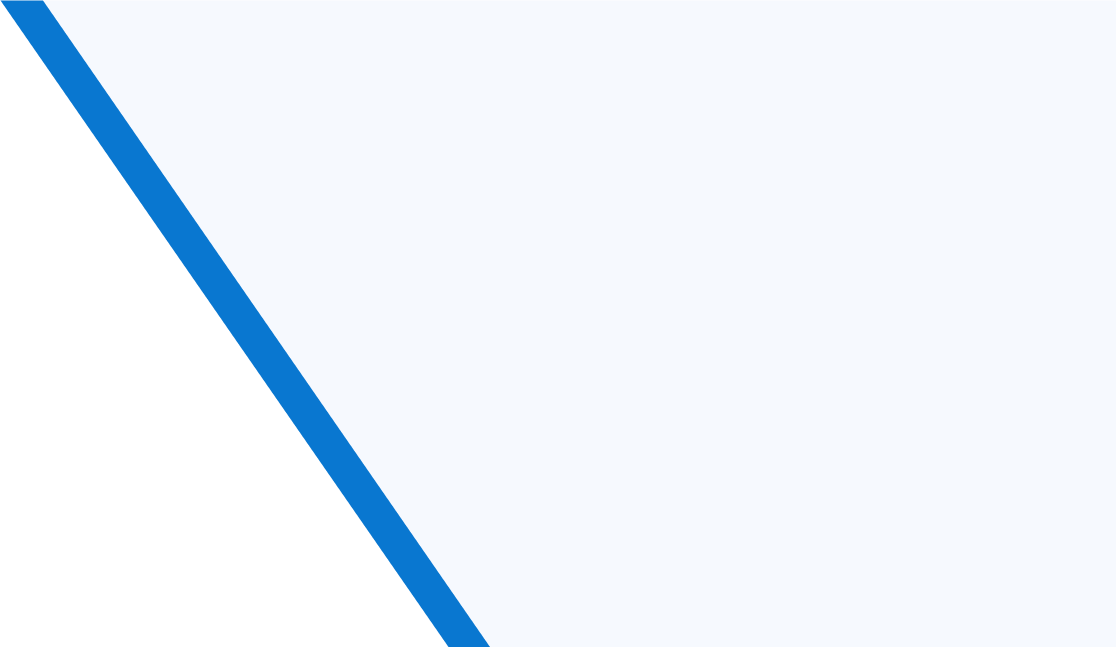
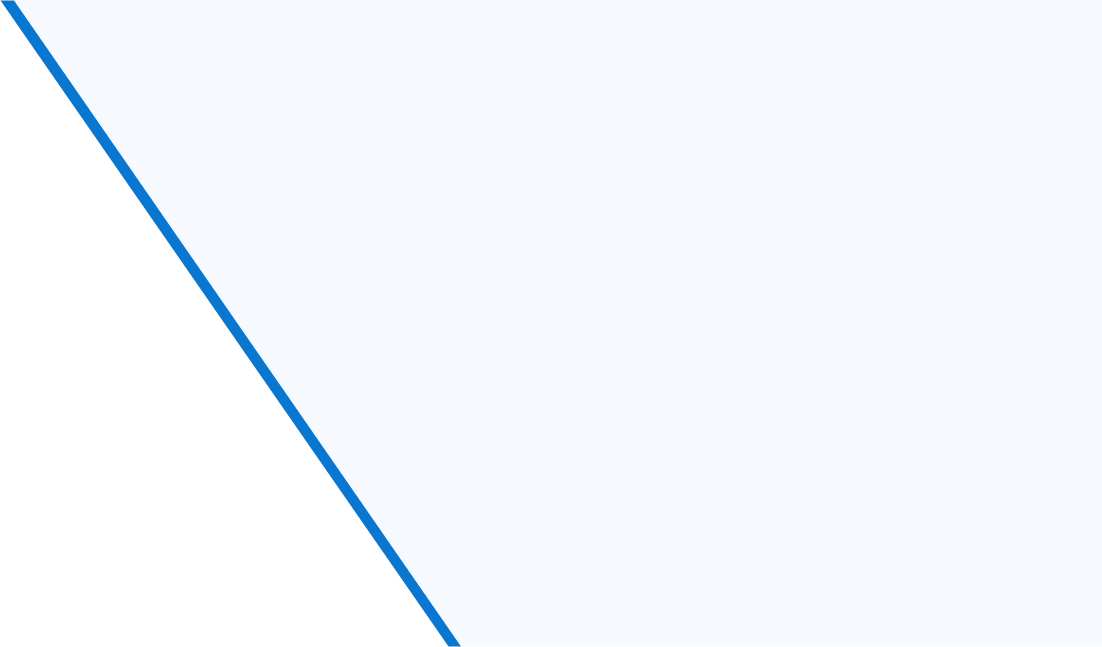
home page in progress

Changed region(s): [[0.0, 0.0, 0.4628, 1.0]]

diff --git a/src/app/components/wecome-section/wecome-section.component.scss b/src/app/components/wecome-section/wecome-section.component.scss
@@ -1,0 +1,90 @@
+.welcome-section {
+  margin-top: 100px;
+  .welcome-img-box {
+  position: relative;
+
+  .big-image {
+    height: 450px;
+    width: 450px;
+    border-radius: 20px;
+    border: 4px var(--color-primary) solid;
+    transform: skewX(-10deg);
+    overflow: hidden;
+
+    img {
+      height: 450px;
+      transform: skewX(10deg);
+      position: relative;
+      margin-left: -200px;
+    }
+  }
+
+  .small-image {
+    height: 300px;
+    width: 300px;
+    border-radius: 20px;
+    border: 4px solid var(--color-primary);
+    transform: skewX(-10deg);
+    position: absolute;
+    top: 50%;
+    right: 10%;
+    overflow: hidden;
+
+    img {
+      height: 310px;
+      transform: skewX(10deg);
+      position: relative;
+      margin-left: -100px;
+    }
+  }
+
+  
+}
+.welcome-txt-box {
+    .welcome-txt {
+      background-image: url(../../../assets/left_coner.png);
+      background-repeat: no-repeat;
+      padding-top: 20px;
+      padding-left: 30px;
+      margin-top: 50px;
+
+      h2 {
+        font-family: 'Jost', sans-serif;
+        color: var(--color-primary);
+        font-size: 48px;
+        font-weight: 600;
+        line-height: 69.3px;
+      }
+
+      p {
+        font-family: 'Jost', sans-serif;
+        font-size: 18px;
+        font-weight: 400px;
+        line-height: 28px;
+        color: #656567;
+        text-align: justify;
+      }
+
+      button{
+        background: var(--color-secondary);
+        color: white;
+        font-family: 'Jost', sans-serif;
+        font-size: 18px;
+        font-weight: 500;
+        border: none;
+        border-radius: 8px;
+        padding: 5px 20px;
+
+        &:hover {
+          background: var(--color-primary);
+        }
+      }
+    }
+  }
+}
+
+@media only screen and (max-width: 768px) {
+  .welcome-txt-box{
+    margin-top: 80px;
+  }
+}

diff --git a/src/app/components/slider/slider.component.scss b/src/app/components/slider/slider.component.scss
@@ -1,0 +1,99 @@
+ngb-carousel {
+  max-width: 100%;
+  max-height: 646px;
+  width: inherit;
+  height: inherit;
+  position: relative;
+  overflow: hidden;
+  img {
+    width: 70%;
+    outline: relative;
+  }
+
+  &::after {
+    content: "";
+    background-image: url(../../../assets/slash.png);
+    height: 646px;
+    width: 800px;
+    background-repeat: none;
+    position: absolute;
+    right: 0;
+    top: 0;
+  }
+}
+.carousel-inner {
+  overflow: hidden;
+}
+.carousel-item {
+  display: flex !important;
+  opacity: 0;
+  visibility: hidden;
+  transition: opacity 1.2s ease-in-out, visibility 1.2s;
+  z-index: -1;
+}
+.carousel-item.active {
+  opacity: 1;
+  visibility: visible;
+  z-index: 10;
+}
+.carousel-control-prev {
+  z-index: 20;
+}
+.carousel-control-next {
+  z-index: 20;
+}
+.carousel-indicators {
+  z-index: 20;
+}
+
+.carousel-caption {
+  width: 360px;
+  top: 30%;
+  left: 60%;
+  z-index: 20;
+  // background: pink;
+
+  h3 {
+    font-family: "Jost", sans-serif;
+    color: var(--color-primary);
+    text-align: right;
+    font-size: 38px;
+    font-weight: 700;
+  }
+
+  p {
+    font-family: "Jost", sans-serif;
+    text-align: left;
+  }
+}
+
+@media only screen and (max-width: 768px) {
+  ngb-carousel {
+    &::after {
+      display: none;
+    }
+
+    img {
+      width: 100%;
+    }
+  }
+
+  .carousel-caption {
+    background: rgba(255, 255, 255, 0.493);
+    height: 100px;
+    width: 100%;
+    left: 50%;
+    transform: translateX(-50%);
+    top: 68%;
+    display: flex;
+    flex-direction: column;
+    justify-content: flex-end;
+    padding: 10px;
+
+    h3 {
+      text-align: center;
+      font-size: 28px;
+      font-weight: 600;
+    }
+  }
+}

diff --git a/src/app/components/wecome-section/wecome-section.component.html b/src/app/components/wecome-section/wecome-section.component.html
@@ -1,0 +1,22 @@
+<div class="container welcome-section">
+  <div class="row">
+    <div class="col-md-6 welcome-img-box">
+      <div class="big-image">
+        <img src="../../../assets/welcome_big_img.jpg" alt="">
+      </div>
+      <div class="small-image">
+        <img src="../../../assets/welcome_small_img.jpg" alt="">
+      </div>
+    </div>
+    <div class="col-md-6 welcome-txt-box">
+      <div class="welcome-txt">
+        <h2>Welcome To Byaxiom Solutions Limited</h2>
+        <p>
+          BYAXIOM Solutions Limited is a fully registered company under the Companies & Allied Matters Act of 1990 with Registration No: RC 634374. The company’s strength lies in gathering in-depth business domain knowledge by scientifically capturing, managing system requirements and converting them into a robust design, which can withstand changes and is relatively risk free. This ensures the success of the project undertaken.
+        </p>
+        <button>Read More <i class="bi bi-arrow-right"></i></button>
+      </div>
+      
+    </div>
+  </div>
+</div>

diff --git a/src/app/components/slider/slider.component.html b/src/app/components/slider/slider.component.html
@@ -1,1 +1,29 @@
-<p>slider works!</p>
+<ngb-carousel *ngIf="images">
+	<ng-template ngbSlide>
+		<div class="picsum-img-wrapper">
+			<img [src]="images[0]" alt="Random first slide" />
+		</div>
+		<div class="carousel-caption">
+			<h3>Effective and Innovative Solutions</h3>
+			<!-- <p>Nulla vitae elit libero, a pharetra augue mollis interdum.</p> -->
+		</div>
+	</ng-template>
+	<ng-template ngbSlide>
+		<div class="picsum-img-wrapper">
+			<img [src]="images[1]" alt="Random second slide" />
+		</div>
+		<div class="carousel-caption">
+			<h3>Whatever we do, we carry you along...</h3>
+			<!-- <p>Lorem ipsum dolor sit amet, consectetur adipiscing elit.</p> -->
+		</div>
+	</ng-template>
+	<ng-template ngbSlide>
+		<div class="picsum-img-wrapper">
+			<img [src]="images[2]" alt="Random third slide" />
+		</div>
+		<div class="carousel-caption">
+			<h3>We are happy to partner with you to realize objectives</h3>
+			<!-- <p>Praesent commodo cursus magna, vel scelerisque nisl consectetur.</p> -->
+		</div>
+	</ng-template>
+</ngb-carousel>

diff --git a/src/app/components/slider/slider.component.ts b/src/app/components/slider/slider.component.ts
@@ -1,10 +1,26 @@
 import { Component } from '@angular/core';
+import {
+  NgbCarouselConfig,
+  NgbCarouselModule,
+} from '@ng-bootstrap/ng-bootstrap';
 
 @Component({
   selector: 'app-slider',
   templateUrl: './slider.component.html',
-  styleUrls: ['./slider.component.scss']
+  styleUrls: ['./slider.component.scss'],
 })
 export class SliderComponent {
+  images = [
+    '../../../assets/image1.jpg',
+    '../../../assets/image2.jpg',
+    '../../../assets/image3.jpg',
+  ];
 
+  constructor(config: NgbCarouselConfig) {
+    // customize default values of carousels used by this component tree
+    config.interval = 7000;
+    config.wrap = true;
+    config.keyboard = false;
+    config.pauseOnHover = false;
+  }
 }

diff --git a/src/app/app.module.ts b/src/app/app.module.ts
@@ -13,6 +13,7 @@ import { NavbarComponent } from './components/navbar/navbar.component';
 import { FooterComponent } from './components/footer/footer.component';
 import { HeaderComponent } from './components/header/header.component';
 import { SliderComponent } from './components/slider/slider.component';
+import { WecomeSectionComponent } from './components/wecome-section/wecome-section.component';
 
 @NgModule({
   declarations: [
@@ -25,7 +26,8 @@ import { SliderComponent } from './components/slider/slider.component';
     NavbarComponent,
     FooterComponent,
     HeaderComponent,
-    SliderComponent
+    SliderComponent,
+    WecomeSectionComponent
   ],
   imports: [
     BrowserModule,

diff --git a/src/app/components/wecome-section/wecome-section.component.spec.ts b/src/app/components/wecome-section/wecome-section.component.spec.ts
@@ -1,0 +1,23 @@
+import { ComponentFixture, TestBed } from '@angular/core/testing';
+
+import { WecomeSectionComponent } from './wecome-section.component';
+
+describe('WecomeSectionComponent', () => {
+  let component: WecomeSectionComponent;
+  let fixture: ComponentFixture<WecomeSectionComponent>;
+
+  beforeEach(async () => {
+    await TestBed.configureTestingModule({
+      declarations: [ WecomeSectionComponent ]
+    })
+    .compileComponents();
+
+    fixture = TestBed.createComponent(WecomeSectionComponent);
+    component = fixture.componentInstance;
+    fixture.detectChanges();
+  });
+
+  it('should create', () => {
+    expect(component).toBeTruthy();
+  });
+});

diff --git a/src/app/components/wecome-section/wecome-section.component.ts b/src/app/components/wecome-section/wecome-section.component.ts
@@ -1,0 +1,10 @@
+import { Component } from '@angular/core';
+
+@Component({
+  selector: 'app-wecome-section',
+  templateUrl: './wecome-section.component.html',
+  styleUrls: ['./wecome-section.component.scss']
+})
+export class WecomeSectionComponent {
+
+}

diff --git a/src/app/components/navbar/navbar.component.scss b/src/app/components/navbar/navbar.component.scss
@@ -1,4 +1,5 @@
 nav {
+  font-family: 'Jost', sans-serif;
   padding: 10px;
   background: white;
 
@@ -42,6 +43,7 @@ nav {
     height: 100%;
     background: white;
     transition: 0.4s ease-in-out;
+    z-index: 100;
 
     ul {
       li {

diff --git a/src/app/components/navbar/navbar.component.html b/src/app/components/navbar/navbar.component.html
@@ -1,4 +1,4 @@
-<nav class="shadow-sm">
+<nav class="shadow-sm sticky-top">
   <div class="container">
   <div class="row">
     <div class="col-md-3 col-sm-3 col-3 d-flex flex-wrap align-items-center">

diff --git a/src/app/pages/home/home.component.html b/src/app/pages/home/home.component.html
@@ -1,1 +1,2 @@
-<p>home works!</p>
+<app-slider></app-slider>
+<app-wecome-section></app-wecome-section>
